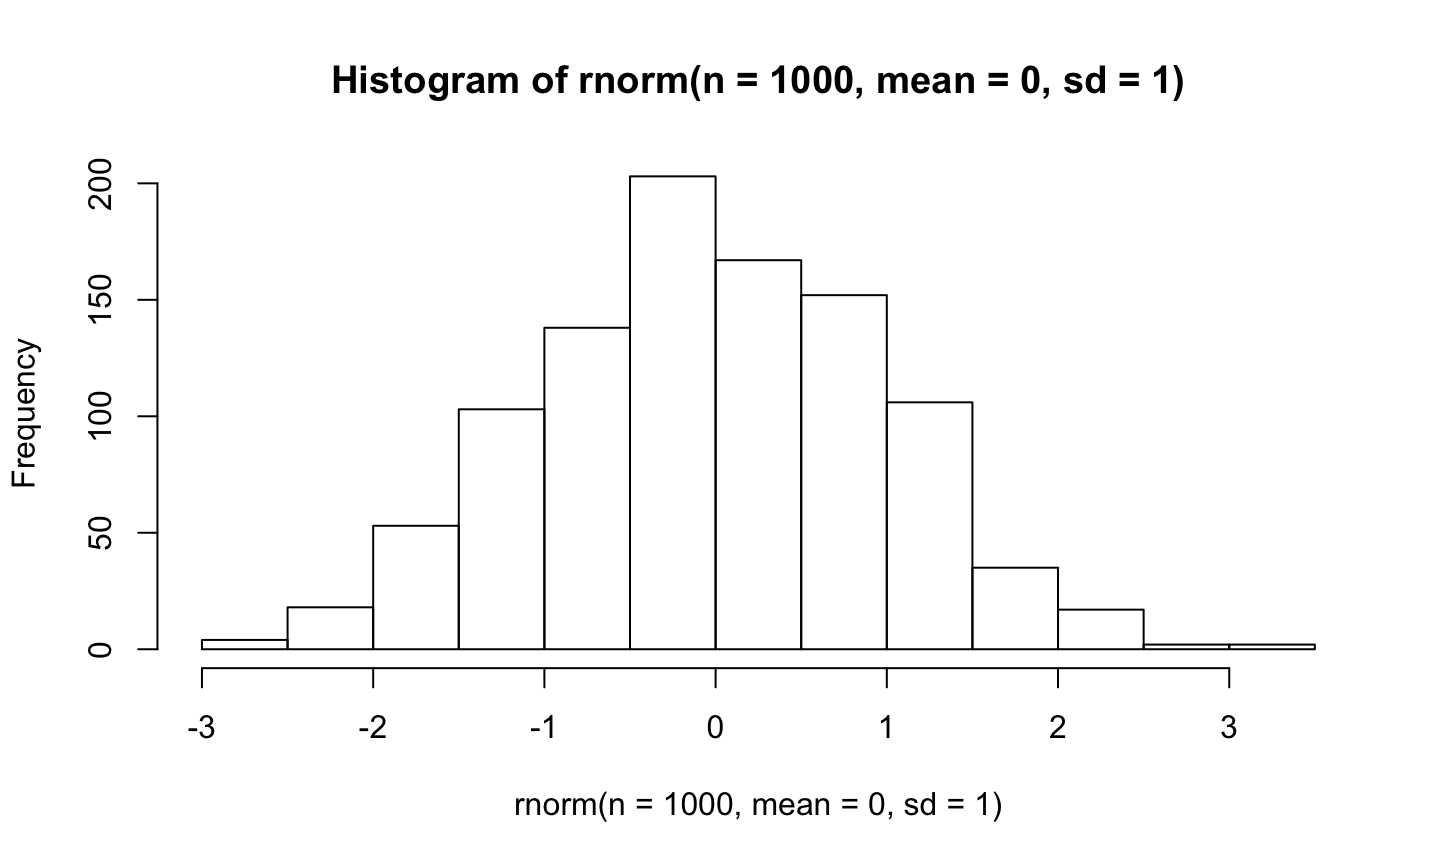
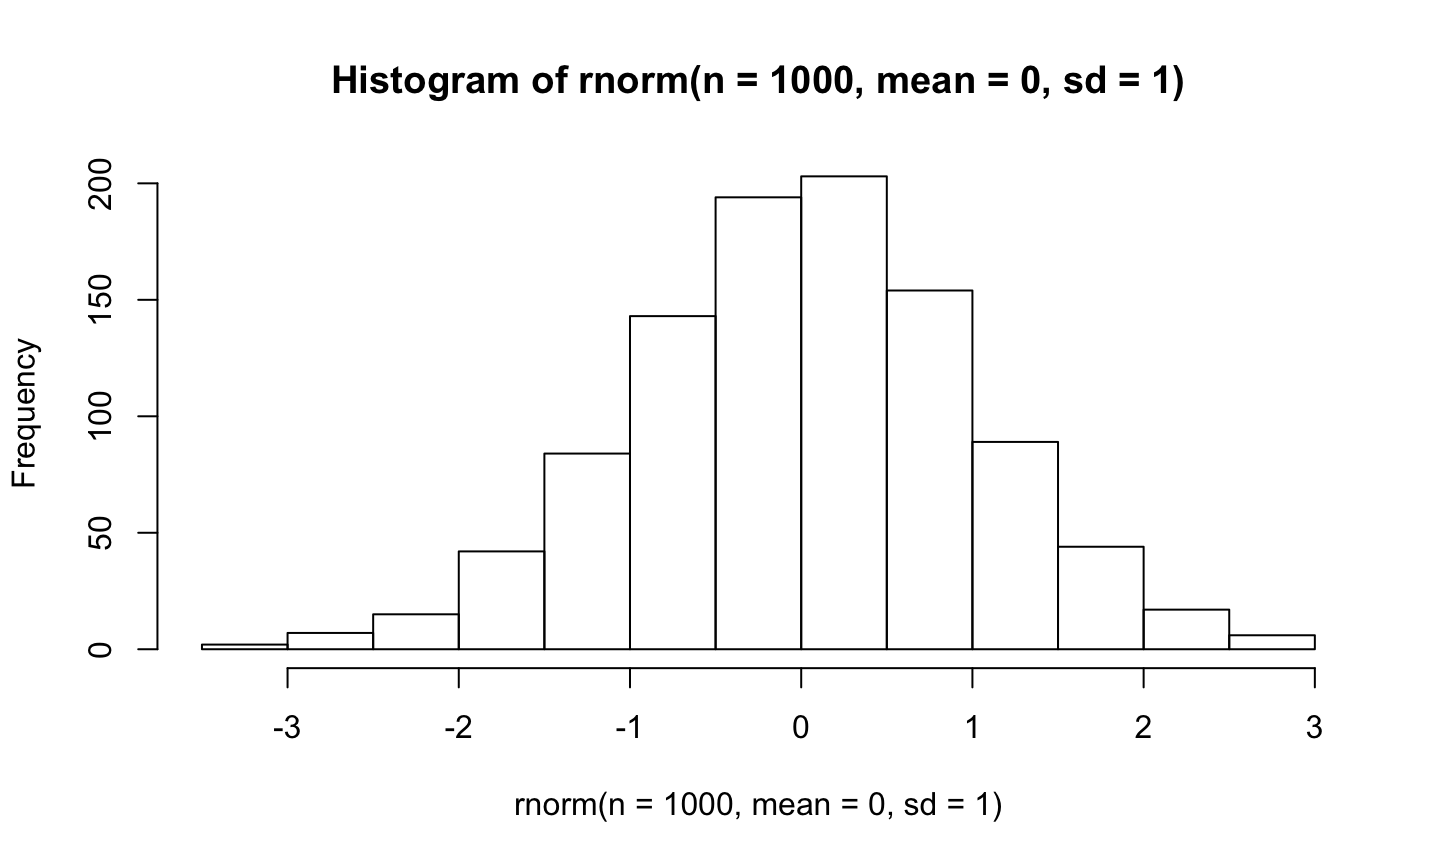
Update README

diff --git a/index.html b/index.html
@@ -120,7 +120,7 @@ slide:not(.current) .plotly.html-widget{
       <h1 data-config-title><!-- populated from slide_config.json --></h1>
       <h2 data-config-subtitle><!-- populated from slide_config.json --></h2>
       <p data-config-presenter><!-- populated from slide_config.json --></p>
-            <p style="margin-top: 6px; margin-left: -2px;">2020-10-06 14:46:16</p>
+            <p style="margin-top: 6px; margin-left: -2px;">2020-10-07 11:59:33</p>
           </hgroup>
   </slide>
 
@@ -270,7 +270,7 @@ slide:not(.current) .plotly.html-widget{
 related data</span> from research on humans</li>
 <li>Hosted at New York University</li>
 <li>Opened 2014</li>
-<li>598 institutions; 1803 researchers; 61,236 hours of video + other data; 581 shared projects</li>
+<li>598 institutions; 1805 researchers; 61,299 hours of video + other data; 581 shared projects</li>
 </ul>
 
 </article></slide><slide class=""><hgroup><h2>Video and audio data pose special risks</h2></hgroup><article  id="video-and-audio-data-pose-special-risks">
@@ -366,12 +366,10 @@ related data</span> from research on humans</li>
 
 <pre class = 'prettyprint lang-r'>databraryapi::get_db_stats()</pre>
 
-<pre >##                  date investigators affiliates
-## 1 2020-10-06 14:46:16          1204        599
-##   institutions datasets_total datasets_shared n_files
-## 1          598           1145             581  129002
-##      hours       TB
-## 1 61235.98 26.84145</pre>
+<pre >##                  date investigators affiliates institutions datasets_total
+## 1 2020-10-07 11:59:34          1204        601          598           1145
+##   datasets_shared n_files    hours       TB
+## 1             581  129106 61298.86 26.86257</pre>
 
 <p><a href='https://play-behaviorome.github.io/databraryapi/' title=''><span class="cite">(R. Gilmore, 2020)</span></a></p>
 
@@ -510,19 +508,18 @@ related data</span> from research on humans</li>
 <p><img src="index_files/figure-html/unnamed-chunk-11-1.png" width="720" style="display: block; margin: auto;" /></p>
 
 <pre >## $breaks
-##  [1] -3.0 -2.5 -2.0 -1.5 -1.0 -0.5  0.0  0.5  1.0  1.5
-## [11]  2.0  2.5  3.0  3.5
+##  [1] -3.5 -3.0 -2.5 -2.0 -1.5 -1.0 -0.5  0.0  0.5  1.0  1.5  2.0  2.5  3.0
 ## 
 ## $counts
-##  [1]   4  18  53 103 138 203 167 152 106  35  17   2   2
+##  [1]   2   7  15  42  84 143 194 203 154  89  44  17   6
 ## 
 ## $density
-##  [1] 0.008 0.036 0.106 0.206 0.276 0.406 0.334 0.304 0.212
-## [10] 0.070 0.034 0.004 0.004
+##  [1] 0.004 0.014 0.030 0.084 0.168 0.286 0.388 0.406 0.308 0.178 0.088 0.034
+## [13] 0.012
 ## 
 ## $mids
-##  [1] -2.75 -2.25 -1.75 -1.25 -0.75 -0.25  0.25  0.75  1.25
-## [10]  1.75  2.25  2.75  3.25
+##  [1] -3.25 -2.75 -2.25 -1.75 -1.25 -0.75 -0.25  0.25  0.75  1.25  1.75  2.25
+## [13]  2.75
 ## 
 ## $xname
 ## [1] &quot;rnorm(n = 1000, mean = 0, sd = 1)&quot;
@@ -643,40 +640,28 @@ slides > slide:not(.nobackground):after {
 }
 </style>
 
-<p>This talk was produced on 2020-10-06 in <a href='http://rstudio.com' title=''>RStudio</a> using R Markdown. The code and materials used to generate the slides may be found at <a href='https://github.com/gilmore-lab/2020-10-07-why-r' title=''>https://github.com/gilmore-lab/2020-10-07-why-r</a>. Information about the R Session that produced the code is as follows:</p>
+<p>This talk was produced on 2020-10-07 in <a href='http://rstudio.com' title=''>RStudio</a> using R Markdown. The code and materials used to generate the slides may be found at <a href='https://github.com/gilmore-lab/2020-10-07-why-r' title=''>https://github.com/gilmore-lab/2020-10-07-why-r</a>. Information about the R Session that produced the code is as follows:</p>
 
 <pre >## R version 3.6.2 (2019-12-12)
 ## Platform: x86_64-apple-darwin15.6.0 (64-bit)
 ## Running under: macOS Catalina 10.15.7
 ## 
 ## Matrix products: default
-## BLAS:   /System/Library/Frameworks/Accelerate.framework/Versions/A/Frameworks/vecLib.framework/Versions/A/libBLAS.dylib
+## BLAS:   /Library/Frameworks/R.framework/Versions/3.6/Resources/lib/libRblas.0.dylib
 ## LAPACK: /Library/Frameworks/R.framework/Versions/3.6/Resources/lib/libRlapack.dylib
 ## 
 ## locale:
 ## [1] en_US.UTF-8/en_US.UTF-8/en_US.UTF-8/C/en_US.UTF-8/en_US.UTF-8
 ## 
 ## attached base packages:
-## [1] stats     graphics  grDevices utils     datasets 
-## [6] methods   base     
-## 
-## other attached packages:
-## [1] qrcode_0.1.1
+## [1] stats     graphics  grDevices utils     datasets  methods   base     
 ## 
 ## loaded via a namespace (and not attached):
-##  [1] png_0.1-7          packrat_0.5.0     
-##  [3] digest_0.6.25      mime_0.9          
-##  [5] R.methodsS3_1.8.1  R6_2.4.1          
-##  [7] jsonlite_1.7.1     magrittr_1.5      
-##  [9] evaluate_0.14      highr_0.8         
-## [11] httr_1.4.2         rlang_0.4.7       
-## [13] stringi_1.5.3      curl_4.3          
-## [15] R.oo_1.24.0        R.utils_2.10.1    
-## [17] databraryapi_0.2.3 rmarkdown_2.3     
-## [19] tools_3.6.2        stringr_1.4.0     
-## [21] xfun_0.17          yaml_2.2.1        
-## [23] compiler_3.6.2     base64enc_0.1-3   
-## [25] htmltools_0.5.0    knitr_1.29</pre>
+##  [1] digest_0.6.25      R6_2.4.1           jsonlite_1.7.1     magrittr_1.5      
+##  [5] evaluate_0.14      highr_0.8          httr_1.4.2         rlang_0.4.7       
+##  [9] stringi_1.5.3      curl_4.3           databraryapi_0.2.4 rmarkdown_2.3     
+## [13] tools_3.6.2        stringr_1.4.0      xfun_0.17          yaml_2.2.1        
+## [17] compiler_3.6.2     htmltools_0.5.0    knitr_1.29</pre>
 
 <pre >## Logout Successful.</pre>
 

diff --git a/README.md b/README.md
@@ -1,2 +1,14 @@
 # 2020-10-07-why-r
-Talk Rick Gilmore gave in the Penn State Psychology Department's I/O brown bag
+Talk Rick Gilmore gave in the Penn State Psychology Department's I/O brown bag:
+
+## Components
+
+- [HTML slides](https://gilmore-lab.github.io/2020-10-07-why-r/) (use arrow keys to navigate)
+- [Rmd source](index.Rmd)
+
+## Rendering
+
+- Clone the repo.
+- Run `rmarkdown::render('index.Rmd')` from the R console.
+
+
